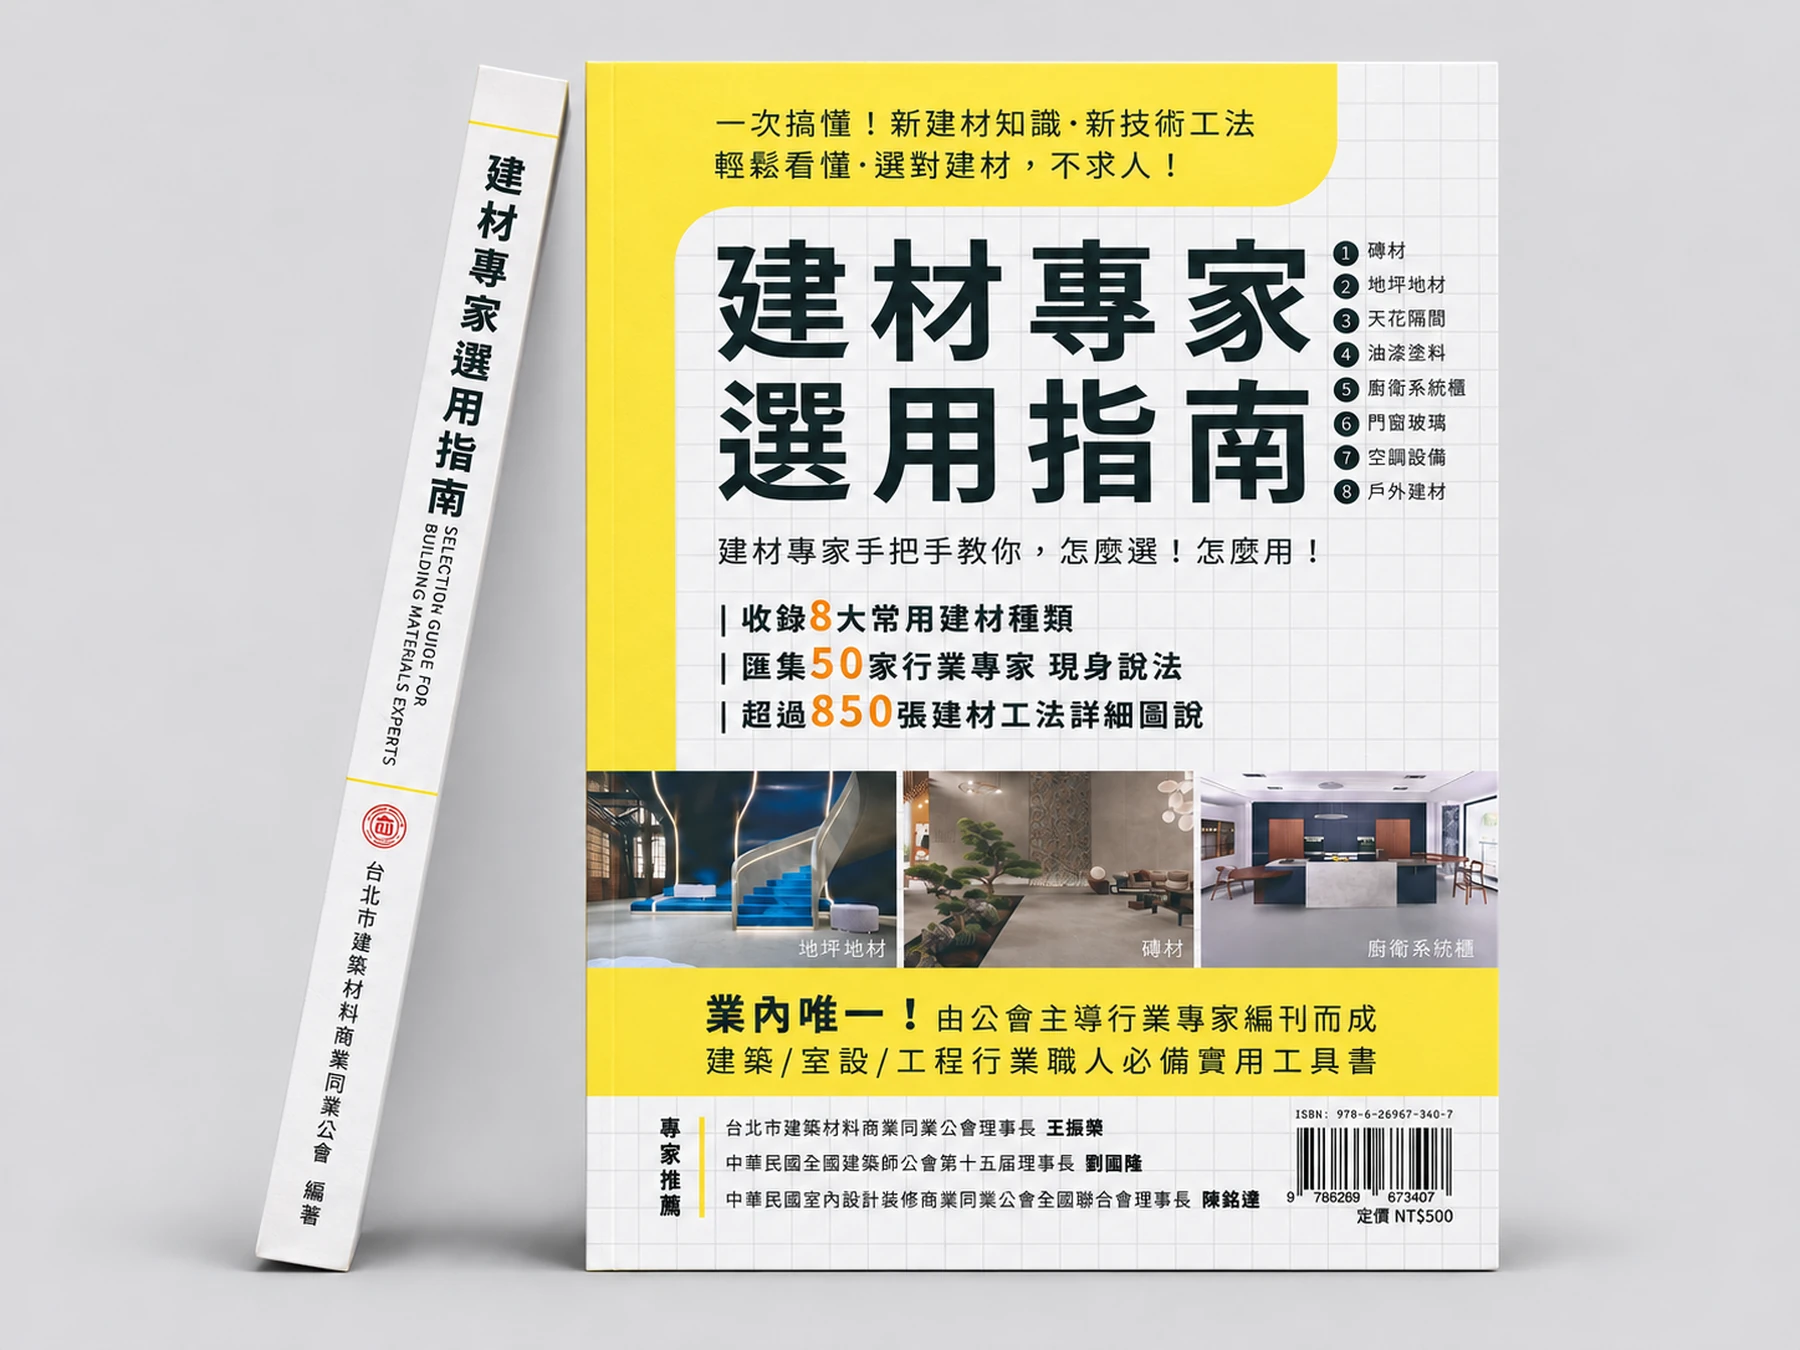
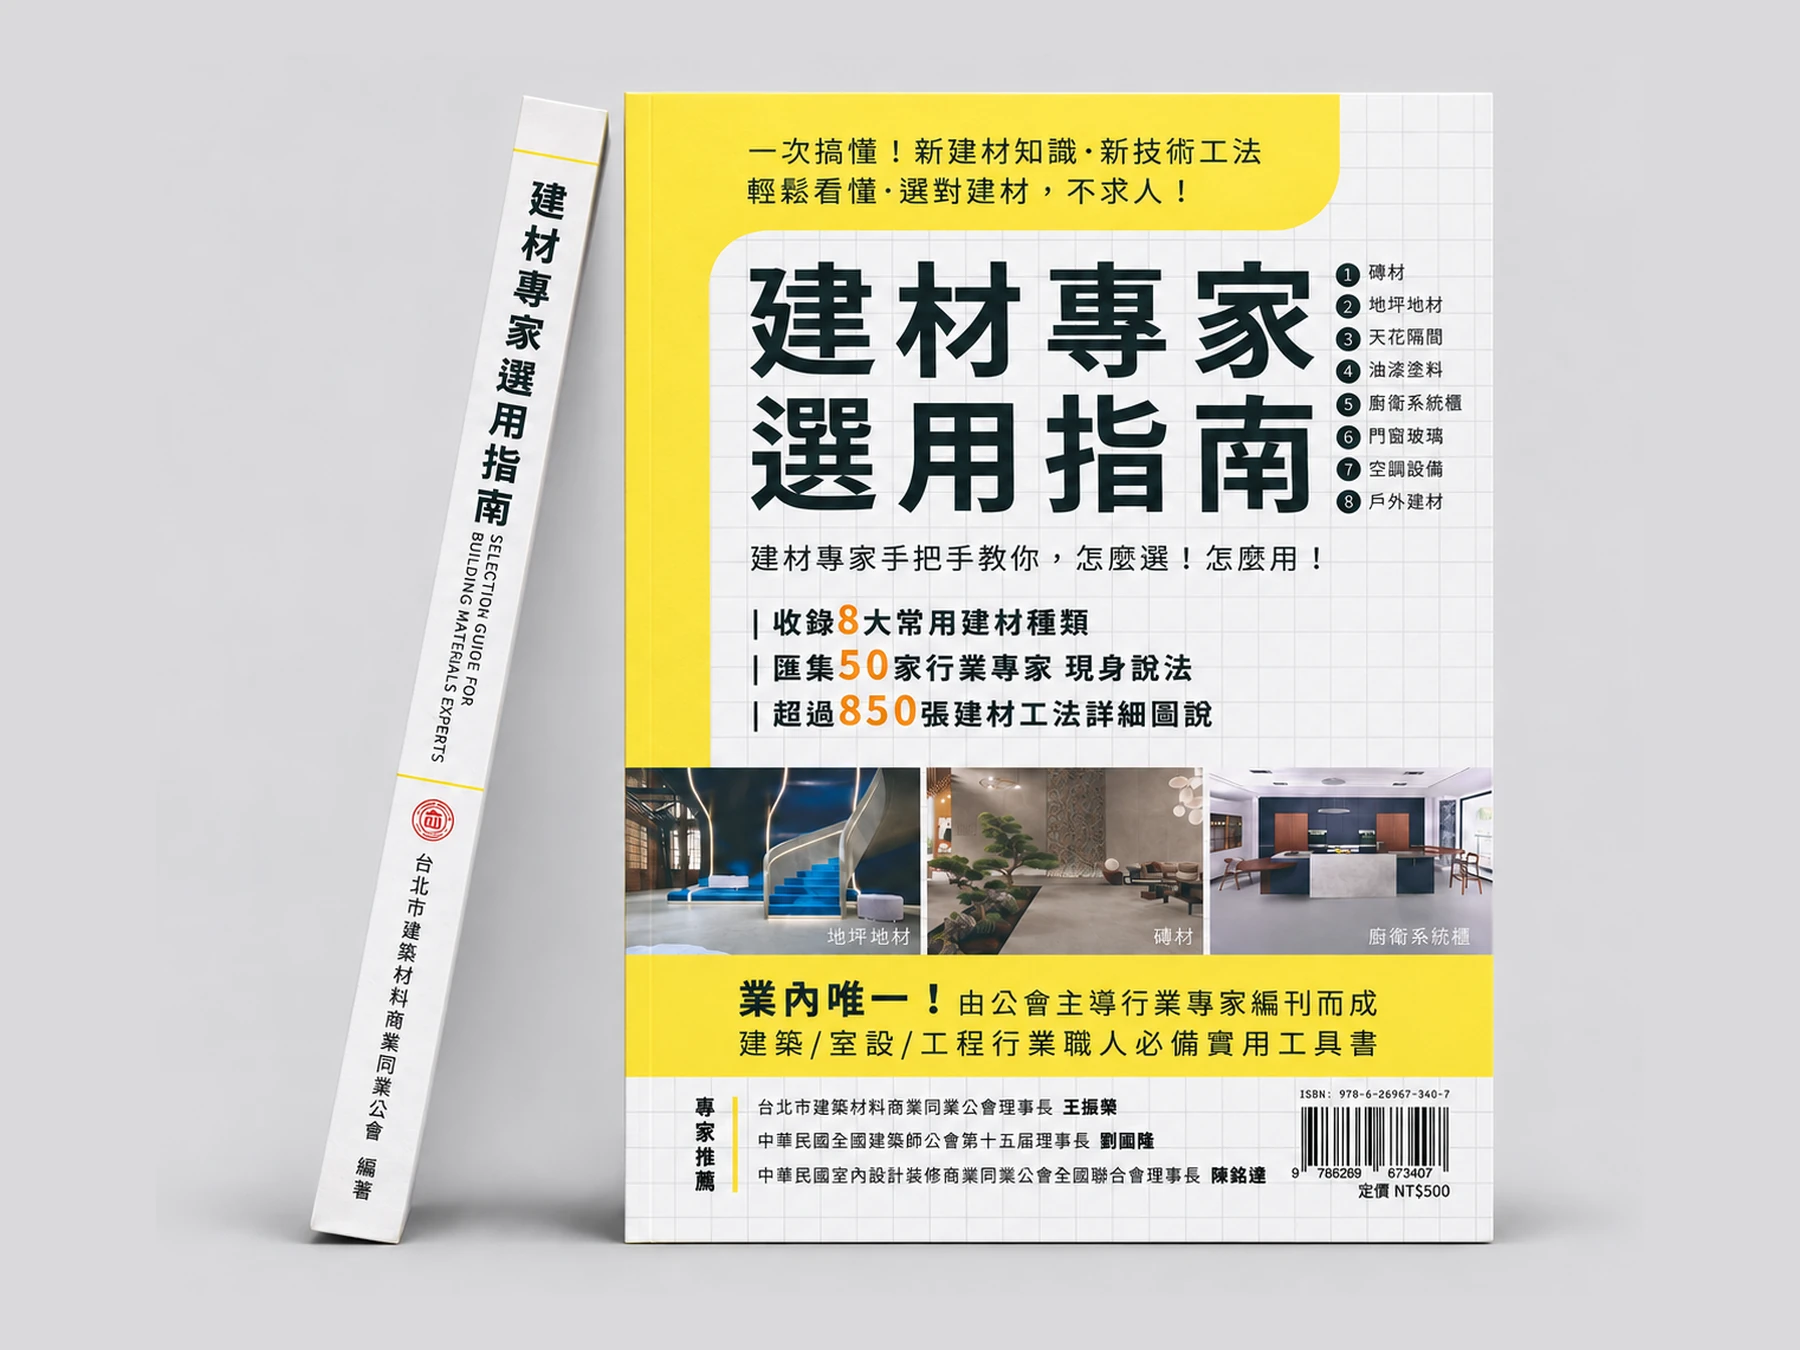
構成圖改比例格線、字型補 Times New Roman、調整圖序與建材底色
Ocean Design
- 標誌構成圖改成參考圖那種比例格線：拿掉虛線圓，改成以筆畫寬為單位 y，
  左側標 12y（外徑）、10y（內徑）、y（中線），橫向把外徑四等分各標 x。
  數值實測：外徑 631px、筆畫 52px，外徑約 12.1y。
- 字型補上 Times New Roman（拉丁），中文宋體（明體）。

圖序
- WILD Party：現場實景移到直式 EDM 之後。
- 2022 未來論壇：B5 議程移到最後。

建材專家選用指南
- 上一版用 cover 裁切，左邊那本的下半被切掉。
  改成完整保留內容、縮放置中，再用「圖片自己的底色」補滿畫面
  （左 #F0EBE7、右 #D9D9DB）。既沒有白框，也不會裁到書。

Changed region(s): [[0.0933, 0.0311, 0.8711, 0.9644]]

diff --git a/visual-work.html b/visual-work.html
@@ -7,7 +7,7 @@
   <meta name="description" content="Fuyu Tsai 六年品牌與平面設計的精選作品：品牌識別、出版封面、活動主視覺與插畫。">
   <link rel="preconnect" href="https://fonts.googleapis.com">
   <link href="https://fonts.googleapis.com/css2?family=Noto+Sans+TC:wght@400;500&display=swap" rel="stylesheet">
-  <link rel="stylesheet" href="css/style.css?v=20261114f">
+  <link rel="stylesheet" href="css/style.css?v=20261114g">
 </head>
 <body>
 
@@ -79,7 +79,7 @@
     <img loading="lazy" decoding="async" width="2000" height="1016" src="assets/images/Visual Work/ocean-logo-concept.webp" alt="Ocean Design 標誌的發想與推演：圓形、波浪線條到完成的 O 與 D" class="vw-main">
     <p class="vw-cap">標誌發想與推演</p>
 
-    <img loading="lazy" decoding="async" width="2400" height="1800" src="assets/images/Visual Work/ocean-logo-construction.webp" alt="Ocean Design 標誌的構成格線與比例" class="vw-main">
+    <img loading="lazy" decoding="async" width="2400" height="1580" src="assets/images/Visual Work/ocean-logo-construction.webp" alt="Ocean Design 標誌的構成比例格線，以筆畫寬 y 為單位，外徑 12y、內徑 10y，橫向四等分" class="vw-main">
     <p class="vw-cap">標誌構成與比例</p>
 
     <img loading="lazy" decoding="async" width="1087" height="662" src="assets/images/Visual Work/ocean-logo-mono.webp" alt="Ocean Design 標誌與 OCEAN INTERNATIONAL 字標" class="vw-main">
@@ -89,9 +89,9 @@
     <p class="vw-cap">延伸應用</p>
 
     <h3 class="vw-sub">字型</h3>
-    <img loading="lazy" decoding="async" width="1025" height="94" src="assets/images/Visual Work/ocean-type-latin.webp" alt="OCEAN INTERNATIONAL 字標，全大寫寬字距襯線體" class="vw-main">
-    <p class="vw-cap">拉丁字標：全大寫襯線體，字距放寬，用於字標與所有應用品</p>
-    <p>中文使用宋體（明體），與拉丁襯線體的筆畫調性一致；名片、信封與紙袋上的聯絡資訊同樣沿用這一組，數字則採用無襯線體，與布標上的「12」一致。</p>
+    <img loading="lazy" decoding="async" width="1025" height="94" src="assets/images/Visual Work/ocean-type-latin.webp" alt="OCEAN INTERNATIONAL 字標，Times New Roman 全大寫寬字距" class="vw-main">
+    <p class="vw-cap">拉丁字標：Times New Roman，全大寫、字距放寬，用於字標與所有應用品</p>
+    <p>拉丁字採用 Times New Roman，中文搭配宋體（明體），兩者筆畫調性一致；名片、信封與紙袋上的聯絡資訊同樣沿用這一組，布標上的「12」則改用無襯線體作為對比。</p>
 
     <h3 class="vw-sub">色彩系統</h3>
     <ul class="brand-swatches">
@@ -195,12 +195,12 @@
         <figcaption>直式 EDM</figcaption>
       </figure>
       <figure>
-        <img loading="lazy" decoding="async" width="900" height="900" src="assets/images/Visual Work/wildparty-badge.webp" alt="2023 設計獎頒獎典禮識別證">
-        <figcaption>2023 設計獎頒獎典禮識別證</figcaption>
-      </figure>
-      <figure>
         <img loading="lazy" decoding="async" width="900" height="600" src="assets/images/Visual Work/wildparty-onsite.webp" alt="WILD Party 頒獎典禮，現場實景">
         <figcaption>現場實景</figcaption>
+      </figure>
+      <figure>
+        <img loading="lazy" decoding="async" width="900" height="900" src="assets/images/Visual Work/wildparty-badge.webp" alt="2023 設計獎頒獎典禮識別證">
+        <figcaption>2023 設計獎頒獎典禮識別證</figcaption>
       </figure>
       <figure>
         <img loading="lazy" decoding="async" width="720" height="900" src="assets/images/Visual Work/wildparty-chimei-sign.webp" alt="奇美獎典禮數位立牌">
@@ -213,10 +213,6 @@
     <img loading="lazy" decoding="async" width="1553" height="1110" src="assets/images/Visual Work/forum-key-visual.webp" alt="2022 未來論壇，主視覺" class="vw-main">
     <div class="vw-grid">
       <figure>
-        <img loading="lazy" decoding="async" width="800" height="572" src="assets/images/Visual Work/forum-agenda-b5.webp" alt="2022 未來論壇，B5 雙面議程">
-        <figcaption>B5 議程</figcaption>
-      </figure>
-      <figure>
         <img loading="lazy" decoding="async" width="601" height="800" src="assets/images/Visual Work/forum-table-sign.webp" alt="2022 未來論壇，主持桌立牌">
         <figcaption>主持桌立牌</figcaption>
       </figure>
@@ -227,6 +223,10 @@
       <figure>
         <img loading="lazy" decoding="async" width="901" height="1200" src="assets/images/Visual Work/forum-stage-backdrop-2.webp" alt="2022 未來論壇，舞台形象背板，款式二">
         <figcaption>舞台形象背板</figcaption>
+      </figure>
+      <figure>
+        <img loading="lazy" decoding="async" width="800" height="572" src="assets/images/Visual Work/forum-agenda-b5.webp" alt="2022 未來論壇，B5 雙面議程">
+        <figcaption>B5 議程</figcaption>
       </figure>
     </div>
   </section>
@@ -372,6 +372,6 @@
 
 <script src="https://cdn.jsdelivr.net/npm/lenis@1.3.26/dist/lenis.min.js"></script>
 <script src="js/main.js"></script>
-<script src="js/menu.js?v=20261114f"></script>
+<script src="js/menu.js?v=20261114g"></script>
 </body>
 </html>

diff --git a/index.html b/index.html
@@ -7,7 +7,7 @@
   <meta name="description" content="蔡馥伃 Fuyu Tsai — UI/UX Designer。六年品牌與視覺設計背景，專注網站介面、設計系統與響應式設計。">
   <link rel="preconnect" href="https://fonts.googleapis.com">
   <link href="https://fonts.googleapis.com/css2?family=Noto+Sans+TC:wght@400;500&display=swap" rel="stylesheet">
-  <link rel="stylesheet" href="css/style.css?v=20261114f">
+  <link rel="stylesheet" href="css/style.css?v=20261114g">
   <script type="importmap">
   { "imports": { "three": "https://cdn.jsdelivr.net/npm/three@0.180.0/build/three.module.js" } }
   </script>
@@ -227,7 +227,7 @@
 
 <script src="https://cdn.jsdelivr.net/npm/lenis@1.3.26/dist/lenis.min.js"></script>
 <script src="js/main.js"></script>
-<script src="js/menu.js?v=20261114f"></script>
+<script src="js/menu.js?v=20261114g"></script>
 <script type="module" src="js/lava.js"></script>
 </body>
 </html>

diff --git a/case-acer.html b/case-acer.html
@@ -7,7 +7,7 @@
   <meta name="description" content="Acer 官網概念重設計 — 資訊架構收斂、token-based 設計系統與比較功能互動原型。Fuyu Tsai UI/UX Case Study。">
   <link rel="preconnect" href="https://fonts.googleapis.com">
   <link href="https://fonts.googleapis.com/css2?family=Noto+Sans+TC:wght@400;500&display=swap" rel="stylesheet">
-  <link rel="stylesheet" href="css/style.css?v=20261114f">
+  <link rel="stylesheet" href="css/style.css?v=20261114g">
 </head>
 <body>
 
@@ -439,7 +439,7 @@
 
 <script src="https://cdn.jsdelivr.net/npm/lenis@1.3.26/dist/lenis.min.js"></script>
 <script src="js/main.js"></script>
-<script src="js/menu.js?v=20261114f"></script>
-<script src="js/lightbox.js?v=20261114f"></script>
+<script src="js/menu.js?v=20261114g"></script>
+<script src="js/lightbox.js?v=20261114g"></script>
 </body>
 </html>

diff --git a/case-michelin.html b/case-michelin.html
@@ -7,7 +7,7 @@
   <meta name="description" content="Michelin Guide 概念重設計 — 餐廳搜尋、列表、詳細頁與三步驟訂位流程。Fuyu Tsai UI/UX Case Study。">
   <link rel="preconnect" href="https://fonts.googleapis.com">
   <link href="https://fonts.googleapis.com/css2?family=Noto+Sans+TC:wght@400;500&display=swap" rel="stylesheet">
-  <link rel="stylesheet" href="css/style.css?v=20261114f">
+  <link rel="stylesheet" href="css/style.css?v=20261114g">
 </head>
 <body>
 
@@ -350,7 +350,7 @@
 
 <script src="https://cdn.jsdelivr.net/npm/lenis@1.3.26/dist/lenis.min.js"></script>
 <script src="js/main.js"></script>
-<script src="js/menu.js?v=20261114f"></script>
-<script src="js/lightbox.js?v=20261114f"></script>
+<script src="js/menu.js?v=20261114g"></script>
+<script src="js/lightbox.js?v=20261114g"></script>
 </body>
 </html>

diff --git a/case-iii-awards.html b/case-iii-awards.html
@@ -7,7 +7,7 @@
   <meta name="description" content="III Awards Agency — 為國際獎項顧問服務建立獨立品牌與四頁響應式網站。Fuyu Tsai UI/UX Case Study。">
   <link rel="preconnect" href="https://fonts.googleapis.com">
   <link href="https://fonts.googleapis.com/css2?family=Noto+Sans+TC:wght@400;500&display=swap" rel="stylesheet">
-  <link rel="stylesheet" href="css/style.css?v=20261114f">
+  <link rel="stylesheet" href="css/style.css?v=20261114g">
 </head>
 <body>
 
@@ -359,7 +359,7 @@
 
 <script src="https://cdn.jsdelivr.net/npm/lenis@1.3.26/dist/lenis.min.js"></script>
 <script src="js/main.js"></script>
-<script src="js/menu.js?v=20261114f"></script>
-<script src="js/lightbox.js?v=20261114f"></script>
+<script src="js/menu.js?v=20261114g"></script>
+<script src="js/lightbox.js?v=20261114g"></script>
 </body>
 </html>

diff --git a/case-iii-design.html b/case-iii-design.html
@@ -7,7 +7,7 @@
   <meta name="description" content="III Design Studio — 品牌識別、視覺系統到官網的完整設計路徑。Fuyu Tsai UI/UX Case Study。">
   <link rel="preconnect" href="https://fonts.googleapis.com">
   <link href="https://fonts.googleapis.com/css2?family=Noto+Sans+TC:wght@400;500&display=swap" rel="stylesheet">
-  <link rel="stylesheet" href="css/style.css?v=20261114f">
+  <link rel="stylesheet" href="css/style.css?v=20261114g">
 </head>
 <body>
 
@@ -309,7 +309,7 @@
 
 <script src="https://cdn.jsdelivr.net/npm/lenis@1.3.26/dist/lenis.min.js"></script>
 <script src="js/main.js"></script>
-<script src="js/menu.js?v=20261114f"></script>
-<script src="js/lightbox.js?v=20261114f"></script>
+<script src="js/menu.js?v=20261114g"></script>
+<script src="js/lightbox.js?v=20261114g"></script>
 </body>
 </html>

diff --git a/about.html b/about.html
@@ -7,7 +7,7 @@
   <meta name="description" content="關於蔡馥伃 Fuyu Tsai — UI/UX Designer。六年品牌與視覺設計經驗，專注網站介面、設計系統與響應式設計。">
   <link rel="preconnect" href="https://fonts.googleapis.com">
   <link href="https://fonts.googleapis.com/css2?family=Noto+Sans+TC:wght@400;500&display=swap" rel="stylesheet">
-  <link rel="stylesheet" href="css/style.css?v=20261114f">
+  <link rel="stylesheet" href="css/style.css?v=20261114g">
 </head>
 <body>
 
@@ -208,6 +208,6 @@
 
 <script src="https://cdn.jsdelivr.net/npm/lenis@1.3.26/dist/lenis.min.js"></script>
 <script src="js/main.js"></script>
-<script src="js/menu.js?v=20261114f"></script>
+<script src="js/menu.js?v=20261114g"></script>
 </body>
 </html>
